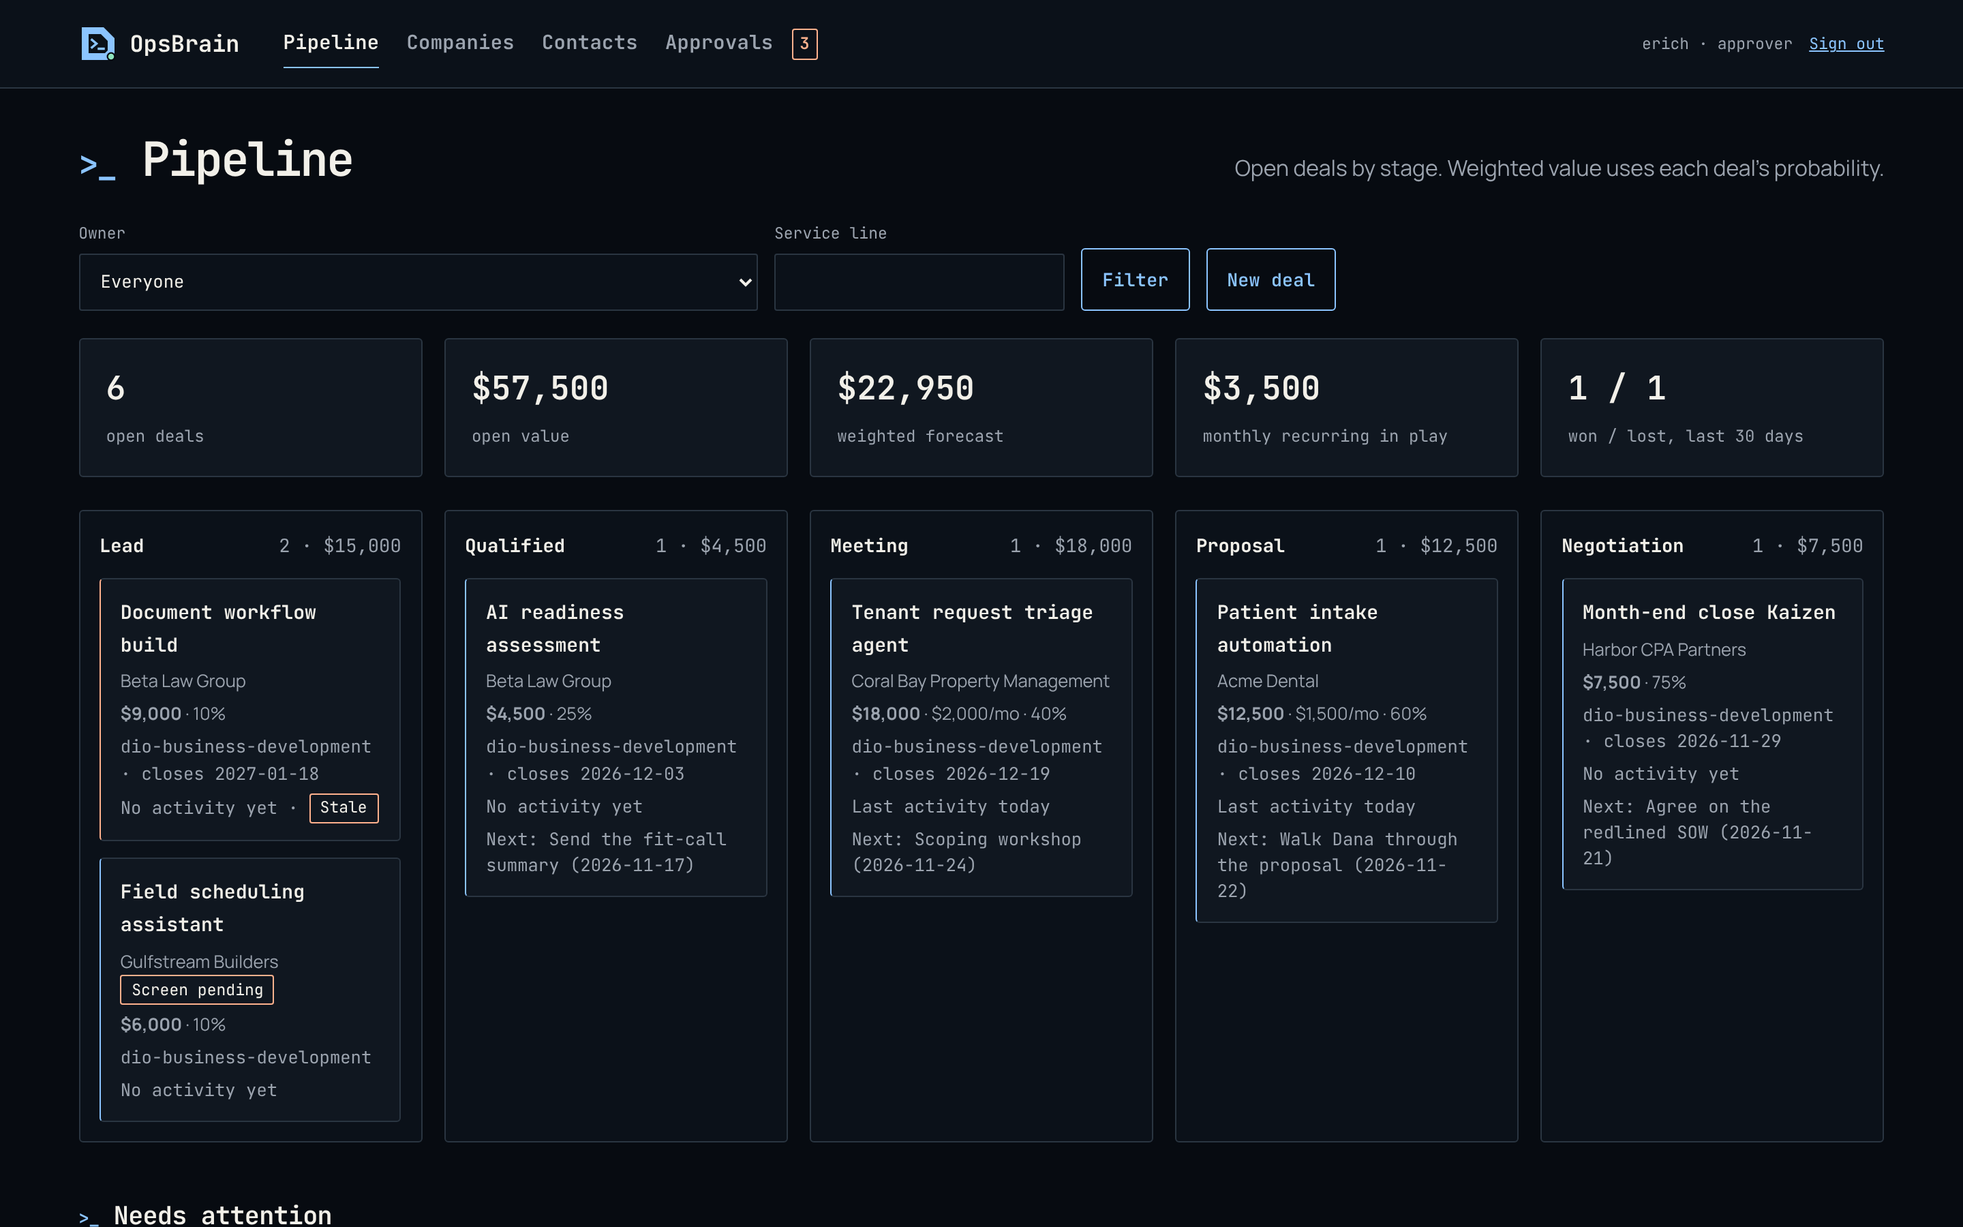
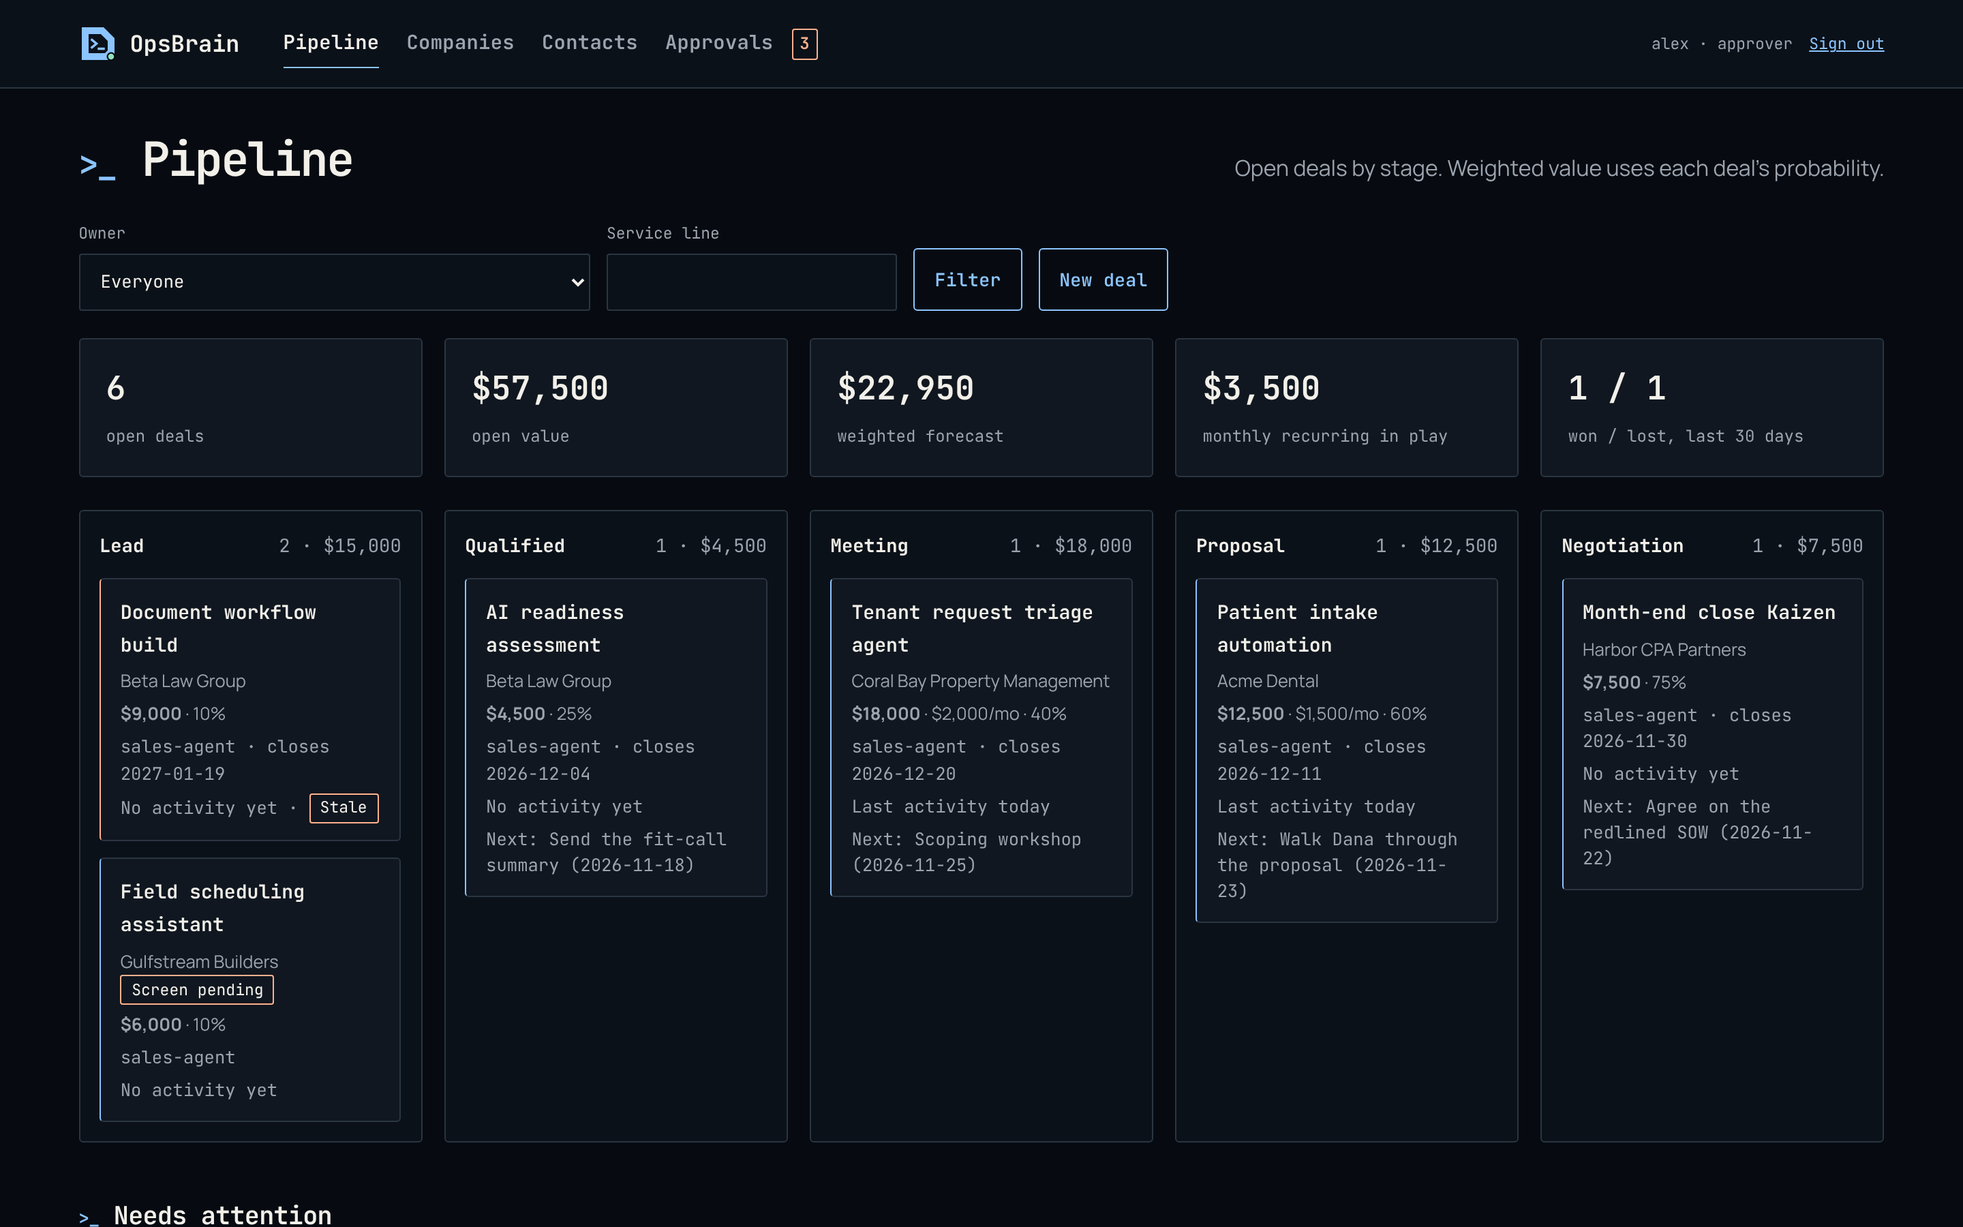
docs: make the README and guides generic for anyone using OpsBrain
OpsBrain is public and meant to be shared, so it no longer describes
one company's use of it as its system of record.

- README: generic description of what to use OpsBrain for; examples use
  neutral handles (alex, quality-reviewer, main-session); the note about
  a specific company's seed is replaced by general advice. The banner
  logo and the design system credit are unchanged.
- Screenshots retaken from demo data with generic people and agents.
- AGENTS.md, setup, client, data model and agent convention guides,
  the web UI sign-in page, a tool hint and .env.example drop
  company-specific names and examples.

Claude-Session: https://claude.ai/code/session_01MWBN8AhDm2VPbeRKuLWSGN

diff --git a/tools/readme/demo-data.ts b/tools/readme/demo-data.ts
@@ -22,23 +22,23 @@ await Deno.writeTextFile(seed, JSON.stringify({
     { slug: "company-operations", name: "Company operations", sort_order: 3 },
   ],
   principals: [
-    { handle: "erich", display_name: "Erich Dautel", kind: "human", role: "owner", can_approve: true, job_title: "Owner" },
+    { handle: "alex", display_name: "Alex Rivera", kind: "human", role: "owner", can_approve: true, job_title: "Owner" },
     { handle: "maria", display_name: "Maria Lopez", kind: "human", role: "member", job_title: "Operations" },
-    { handle: "dio-business-development", display_name: "Business Development", kind: "agent", role: "agent", responsible: "erich" },
-    { handle: "dio-client-success-manager", display_name: "Client Success Manager", kind: "agent", role: "agent", responsible: "erich" },
-    { handle: "dio-platform-devops-engineer", display_name: "Platform and DevOps Engineer", kind: "agent", role: "agent", responsible: "erich" },
-    { handle: "dio-main-session", display_name: "Main session", kind: "service", role: "agent", responsible: "erich" },
+    { handle: "sales-agent", display_name: "Sales agent", kind: "agent", role: "agent", responsible: "alex" },
+    { handle: "client-success-agent", display_name: "Client success agent", kind: "agent", role: "agent", responsible: "alex" },
+    { handle: "devops-agent", display_name: "DevOps agent", kind: "agent", role: "agent", responsible: "alex" },
+    { handle: "main-session", display_name: "Main session", kind: "service", role: "agent", responsible: "alex" },
   ],
-  delegations: [{ principal: "dio-main-session", may_act_as: "all-agents" }],
+  delegations: [{ principal: "main-session", may_act_as: "all-agents" }],
 }));
 await admin(["seed", seed]);
 
-const erich = (await principalByHandle("erich"))!;
-const session = (await principalByHandle("dio-main-session"))!;
-const owner = await resolveCtx(erich, undefined);
+const alex = (await principalByHandle("alex"))!;
+const session = (await principalByHandle("main-session"))!;
+const owner = await resolveCtx(alex, undefined);
 const as = (agent: string) => resolveCtx(session, agent);
-const bd = await as("dio-business-development");
-const cs = await as("dio-client-success-manager");
+const bd = await as("sales-agent");
+const cs = await as("client-success-agent");
 const days = (d: number) => new Date(Date.now() + d * 86_400_000).toISOString().slice(0, 10);
 
 // Companies and contacts
@@ -97,13 +97,13 @@ await db()`UPDATE crm_deals SET created_at = now() - interval '24 days' WHERE id
 // Records that link to the CRM and wait for approval
 await createRecord(bd, { record_type: "proposal", title: "Acme Dental: patient intake automation proposal", content: "Scope: fix the intake handoffs, then automate new-patient intake into the practice system, staff training.\nPrice: $12,500 build, then $1,500 a month for managed operations.", deal: acme, financial_or_ethical: true });
 await createRecord(bd, { record_type: "decision", title: "Founding-client discount for Harbor CPA", content: "Offer 10% off the Kaizen engagement in exchange for a case study.\nOptions: no discount; 10% for a case study; 15% for a case study and a referral.", deal: harbor, financial_or_ethical: true, fields: { options: ["none", "10% + case study", "15% + case study + referral"] } });
-const deploy = await as("dio-platform-devops-engineer");
+const deploy = await as("devops-agent");
 await createRecord(deploy, { record_type: "change_record", title: "Deploy Seaside intake v1.2 to production", content: "Client accepted v1.2 on staging. Rollback: redeploy v1.1 (tested). Window: Thursday 7 pm.", project_id: "SEA-01", requires_approval: true });
 const old = await createRecord(bd, { record_type: "invoice", title: "Seaside Pediatrics deposit invoice", content: "Deposit: $1,500 due on receipt.", deal: seaside, financial_or_ethical: true });
 await decideApproval(owner, old.id, "approve", "Send it");
 await upsertProject(owner, { id: "INT-OPS", name: "Stand up OpsBrain", kind: "internal", area: "company-operations" });
 
 const key = newRawKey();
-await db()`INSERT INTO ops_principal_keys (key_hash, principal_id, label) VALUES (${await sha256Hex(key)}, ${erich.id}, 'readme screenshots')`;
+await db()`INSERT INTO ops_principal_keys (key_hash, principal_id, label) VALUES (${await sha256Hex(key)}, ${alex.id}, 'readme screenshots')`;
 console.log(key);
 await closeDb();

diff --git a/server/ui/pages.ts b/server/ui/pages.ts
@@ -28,7 +28,7 @@ const dealLink = (id: string | null, name: string | null) => (id ? html`<a href=
 export function loginBody(o: { keyLogin: boolean; ssoHint: boolean; next: string; error?: string }): Html {
   return html`<div class="login panel-cut">
   <h1 class="page-title"><span>&gt;_</span> Sign in</h1>
-  <p class="lead-sm">OpsBrain is DIO's private system of record. People only; agents connect through MCP.</p>
+  <p class="lead-sm">OpsBrain is your company's private system of record. People sign in here; agents connect through MCP.</p>
   ${o.error ? html`<p class="flash flash-err" role="alert"><strong>Error:</strong> ${o.error}</p>` : ""}
   ${o.ssoHint ? html`<p class="note">Sign in through your company SSO portal to open OpsBrain directly.</p>` : ""}
   ${o.keyLogin ? html`<form method="post" action="/login" class="form-grid">

diff --git a/server/tool_helpers.ts b/server/tool_helpers.ts
@@ -7,7 +7,7 @@ export const PRIVACY =
   " Never store client confidential data (client systems, customer records, credentials, health or financial data) or client deliverables in OpsBrain; store company records about the work, and link to deliverables in the client's own systems.";
 
 export const actingAs = z.string().optional().describe(
-  "Handle of the agent you are acting as (e.g. dio-chief-of-staff). Required when one key is shared by several agents in a session; must be delegated to your key.",
+  "Handle of the agent you are acting as (e.g. sales-agent). Required when one key is shared by several agents in a session; must be delegated to your key.",
 );
 
 export const ro = { readOnlyHint: true };

diff --git a/README.md b/README.md
@@ -24,7 +24,7 @@
 
 Agents reach it through MCP. People use a private web UI for the CRM and the approval queue. Four times a day, a copy is written to plain markdown folders organized with the PARA method, so anyone can read it without an AI tool.
 
-It is the memory and system of record for **Dautel Intelligent Operations**. It holds everything about how the company runs except client deliverables, and clients never see it.
+Use it as the system of record for everything about how your company runs, except client deliverables: those stay in your clients' systems and your delivery repositories, and clients never see OpsBrain.
 
 <table>
 <tr>
@@ -180,7 +180,7 @@ docker compose -f deploy/docker-compose.yml --env-file deploy/.env exec -T db pg
 **1. Add the owner.** `--can-approve` gives the right to approve financial and ethical decisions. Only people can hold it.
 
 ```bash
-ob principal add erich --name "Erich Dautel" --kind human --role owner --can-approve --title "Owner"
+ob principal add alex --name "Alex Rivera" --kind human --role owner --can-approve --title "Owner"
 ```
 
 | Role | Can |
@@ -196,13 +196,13 @@ ob principal add erich --name "Erich Dautel" --kind human --role owner --can-app
 
 ```json
 {
-  "areas": [{ "slug": "service-delivery", "name": "Service delivery", "owner": "erich" }],
+  "areas": [{ "slug": "service-delivery", "name": "Service delivery", "owner": "alex" }],
   "principals": [
-    { "handle": "dio-quality-reviewer", "display_name": "Quality Reviewer", "kind": "agent", "role": "agent", "responsible": "erich" },
-    { "handle": "dio-main-session", "display_name": "Main session", "kind": "service", "role": "agent", "responsible": "erich" }
+    { "handle": "quality-reviewer", "display_name": "Quality Reviewer", "kind": "agent", "role": "agent", "responsible": "alex" },
+    { "handle": "main-session", "display_name": "Main session", "kind": "service", "role": "agent", "responsible": "alex" }
   ],
-  "processes": [{ "id": "P09", "name": "Custom software", "area": "service-delivery", "owner": "dio-quality-reviewer" }],
-  "delegations": [{ "principal": "dio-main-session", "may_act_as": "all-agents" }],
+  "processes": [{ "id": "P09", "name": "Custom software", "area": "service-delivery", "owner": "quality-reviewer" }],
+  "delegations": [{ "principal": "main-session", "may_act_as": "all-agents" }],
   "pipeline_stages": [
     { "slug": "lead", "name": "Lead", "probability": 10 },
     { "slug": "proposal", "name": "Proposal", "probability": 60, "gate_screen": true },
@@ -222,14 +222,14 @@ docker compose -f deploy/docker-compose.yml --env-file deploy/.env cp ./seed.jso
 ob seed /tmp/seed.json
 ```
 
-Run it again whenever agents or processes change. DIO's own seed (7 areas, 45 processes, 48 agents, its sales stages) is generated by its private operating manual.
+Run it again whenever agents or processes change. A team that keeps its agent definitions in code can generate this file from them, so OpsBrain always matches the team.
 
 **3. Issue keys.** Choose per runtime:
 
 | Model | When | How |
 | --- | --- | --- |
-| **One key per agent** | Agents run on their own (OpenClaw, Hermes on a server) | `ob key issue dio-quality-reviewer --label host-1` |
-| **A delegated session key** | One AI session plays many roles (Claude Code orchestrating a team) | Create a service principal, `ob delegate dio-main-session --all-agents`, issue it a key; each call names the agent with `acting_as` |
+| **One key per agent** | Agents run on their own (OpenClaw, Hermes on a server) | `ob key issue quality-reviewer --label host-1` |
+| **A delegated session key** | One AI session plays many roles (Claude Code orchestrating a team) | Create a service principal, `ob delegate main-session --all-agents`, issue it a key; each call names the agent with `acting_as` |
 
 Give session and connector keys an expiry (`--expires-days 180`), and revoke a lost one immediately with `ob key revoke <hash-prefix>`.
 
@@ -285,7 +285,7 @@ Settings, Connectors, Add custom connector, with the URL `https://opsbrain.examp
 
 </details>
 
-Check the connection by asking: **"Call whoami on OpsBrain."** With a delegated key, try **"Call whoami acting as dio-quality-reviewer."**
+Check the connection by asking: **"Call whoami on OpsBrain."** With a delegated key, try **"Call whoami acting as quality-reviewer."**
 
 ---
 
@@ -295,7 +295,7 @@ Most of the time you just ask your agent. These are the moves that matter:
 
 | I want to | Ask your agent, or do this | Under the hood |
 | --- | --- | --- |
-| Hand work to someone | "Create a task card for the QA review of sprint 3 and assign it to dio-quality-reviewer." | `create_record` (task card), `update_record` to hand off |
+| Hand work to someone | "Create a task card for the QA review of sprint 3 and assign it to quality-reviewer." | `create_record` (task card), `update_record` to hand off |
 | Record a decision | "Record the decision to use Postgres for the portal, with the options we considered." | `create_record` (decision) |
 | Get something approved | "Record the discount as a decision that needs my approval." Then approve it on the web UI's **Approvals** page. | `financial_or_ethical: true` holds it as `pending` |
 | Find what we decided | "Search OpsBrain for what we decided about client portals." | `search_records` (semantic, keyword fallback) |

diff --git a/docs/opsbrain/01-setup.md b/docs/opsbrain/01-setup.md
@@ -92,7 +92,7 @@ alias ob='docker compose -f deploy/docker-compose.yml --env-file deploy/.env exe
 Create yourself as the owner. `--can-approve` gives you the right to approve financial and ethical decisions; only people (never agents) can hold it.
 
 ```bash
-ob principal add erich --name "Erich Dautel" --kind human --role owner --can-approve --title "Founder"
+ob principal add alex --name "Alex Rivera" --kind human --role owner --can-approve --title "Owner"
 ```
 
 Roles:
@@ -107,7 +107,7 @@ Roles:
 
 ## Step 6. Load your company structure
 
-A seed file creates areas of responsibility, processes, agents, people and delegations in one idempotent step. Start from [`deploy/seed.example.json`](../../deploy/seed.example.json), or use the one generated by the experts repo (`opsbrain/seed.json`), which defines all 48 Dautel agents, the 45 work processes and their areas.
+A seed file creates areas of responsibility, processes, agents, people and delegations in one idempotent step. Start from [`deploy/seed.example.json`](../../deploy/seed.example.json). If your team keeps its agent and process definitions in code, generate the seed file from them so OpsBrain always matches.
 
 Copy the file into the container and load it:
 
@@ -124,11 +124,11 @@ Seeding is safe to repeat. Re-run it after you add agents so `"all-agents"` dele
 You can also add things one at a time:
 
 ```bash
-ob area add finance --name "Finance and administration" --owner erich --order 10
+ob area add finance --name "Finance and administration" --owner alex --order 10
 ```
 
 ```bash
-ob project add ACME-01 --name "Acme customer portal" --kind client_engagement --client "Acme" --area service-delivery --owner erich
+ob project add ACME-01 --name "Acme customer portal" --kind client_engagement --client "Acme" --area service-delivery --owner alex
 ```
 
 ## Step 7. Issue keys
@@ -136,7 +136,7 @@ ob project add ACME-01 --name "Acme customer portal" --kind client_engagement --
 Every person, agent runtime and service gets its own key. Keys are shown once and stored only as a SHA-256 hash.
 
 ```bash
-ob key issue erich --label "laptop claude code"
+ob key issue alex --label "laptop claude code"
 ```
 
 Store the printed `obk_...` value in your password manager or secret store.
@@ -144,24 +144,24 @@ Store the printed `obk_...` value in your password manager or secret store.
 **One key per agent, or one key for many agents?** Both work:
 
 - **Separate keys** (one per agent) are best when agents run independently, for example in OpenClaw or Hermes on different hosts.
-- **A delegated session key** is best when one AI session plays many roles, for example the experts repo in Claude Code. Create a service principal, delegate it to the agents, and give that session the key. Each call names the agent with `acting_as`, and OpsBrain records both the agent and the key that was used.
+- **A delegated session key** is best when one AI session plays many roles, for example a Claude Code session that orchestrates a team of agents. Create a service principal, delegate it to the agents, and give that session the key. Each call names the agent with `acting_as`, and OpsBrain records both the agent and the key that was used.
 
 ```bash
-ob principal add erich-claude-code --name "Erich's Claude Code" --kind service --role agent --responsible erich
+ob principal add alex-claude-code --name "Alex's Claude Code" --kind service --role agent --responsible alex
 ```
 
 ```bash
-ob delegate erich-claude-code --all-agents
+ob delegate alex-claude-code --all-agents
 ```
 
 ```bash
-ob key issue erich-claude-code --label "experts repo" --expires-days 180
+ob key issue alex-claude-code --label "claude code" --expires-days 180
 ```
 
 Rotate and revoke:
 
 ```bash
-ob key list erich-claude-code
+ob key list alex-claude-code
 ```
 
 ```bash

diff --git a/docs/opsbrain/03-data-model.md b/docs/opsbrain/03-data-model.md
@@ -22,7 +22,7 @@ ops_principals ──< ops_principal_keys            who is calling (hashed keys
 
 | Column | Meaning |
 | --- | --- |
-| `handle` | Unique lowercase name used everywhere (`erich`, `dio-quality-reviewer`). |
+| `handle` | Unique lowercase name used everywhere (`alex`, `quality-reviewer`). |
 | `display_name`, `job_title`, `email` | Who this is. Email is optional; leave it empty for agents. |
 | `kind` | `human`, `agent` (an AI role) or `service` (a key holder such as a Claude Code session or an integration). |
 | `role` | `owner`, `admin`, `member`, `agent`, `auditor` (see [Setup, Step 5](01-setup.md#step-5-add-the-owner)). |
@@ -88,7 +88,7 @@ These rules hold no matter which client or agent writes the record:
 4. Only a person with approval rights can clear the `financial_or_ethical` or `requires_approval` flags.
 5. Approvals go through `decide_approval`, with the person's own key and without `acting_as`.
 
-For Dautel Intelligent Operations this encodes the owner's rule: final deployments to customers, financial transactions and any decision with financial or ethical considerations need the owner's approval; everything else is decided by the accountable owner without escalation.
+A typical policy built on these rules: final deployments to customers, financial transactions and any decision with financial or ethical considerations need the owner's approval; everything else is decided by the accountable owner without escalation.
 
 ## CRM
 

diff --git a/AGENTS.md b/AGENTS.md
@@ -4,7 +4,7 @@ This file is for AI coding tools (Claude Code, Codex, Cursor, OpenClaw, Hermes) 
 
 ## What this repo is
 
-OpsBrain is the private, self-hosted system of record for Dautel Intelligent Operations: a multi-user, multi-agent company database with an MCP server, forked from Open Brain (OB1) by Nate B. Jones. License: FSL-1.1-MIT (internal use and professional services allowed; no competing commercial product or service). Keep the license and notices intact.
+OpsBrain is a private, self-hosted system of record for companies run by people and AI agents: a multi-user, multi-agent company database with an MCP server and a web UI, forked from Open Brain (OB1) by Nate B. Jones. License: FSL-1.1-MIT (internal use and professional services allowed; no competing commercial product or service). Keep the license and notices intact.
 
 ```text
 server/          Deno MCP server (Hono + MCP SDK, Streamable HTTP, stateless): config, db, auth, records, crm, tools, app

diff --git a/docs/opsbrain/02-connect-clients.md b/docs/opsbrain/02-connect-clients.md
@@ -76,9 +76,9 @@ Ask the client to call `whoami`. You should see something like:
 
 ```json
 {
-  "authenticated_as": { "handle": "erich-claude-code", "kind": "service", "role": "agent", "can_approve": false },
-  "acting_as": "erich-claude-code",
-  "may_act_as": ["dio-account-manager", "dio-quality-reviewer"]
+  "authenticated_as": { "handle": "alex-claude-code", "kind": "service", "role": "agent", "can_approve": false },
+  "acting_as": "alex-claude-code",
+  "may_act_as": ["quality-reviewer", "sales-agent"]
 }
 ```
 

diff --git a/docs/opsbrain/06-agent-conventions.md b/docs/opsbrain/06-agent-conventions.md
@@ -1,6 +1,6 @@
 # 6. Conventions for agents
 
-These conventions make records from many people and agents consistent, so work can be handed off, reviewed and found later. Agent instructions (for example the experts repo's protocol) should follow them.
+These conventions make records from many people and agents consistent, so work can be handed off, reviewed and found later. Agent instructions (for example your team's shared agent protocol) should follow them.
 
 ## Before you start
 
